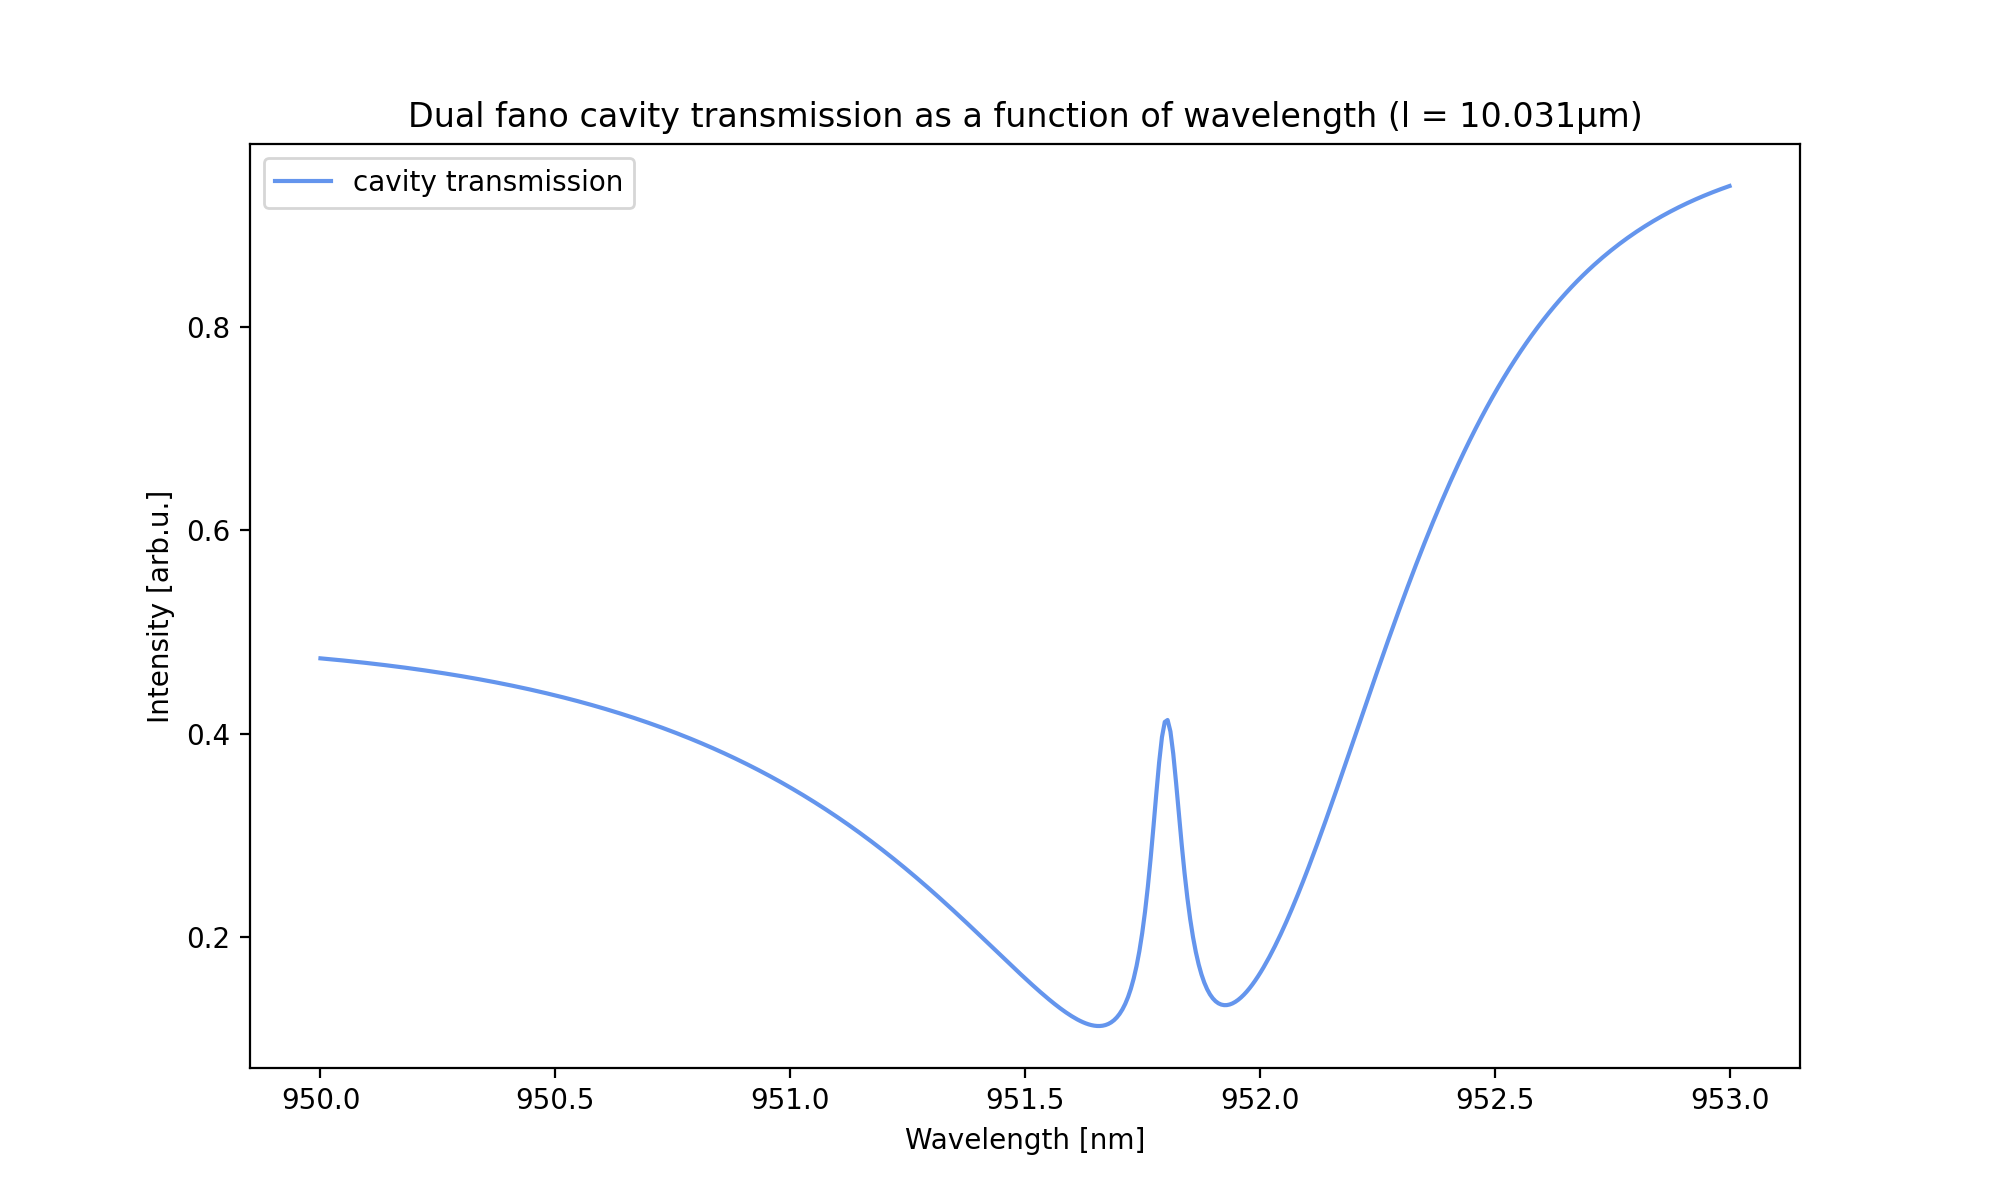
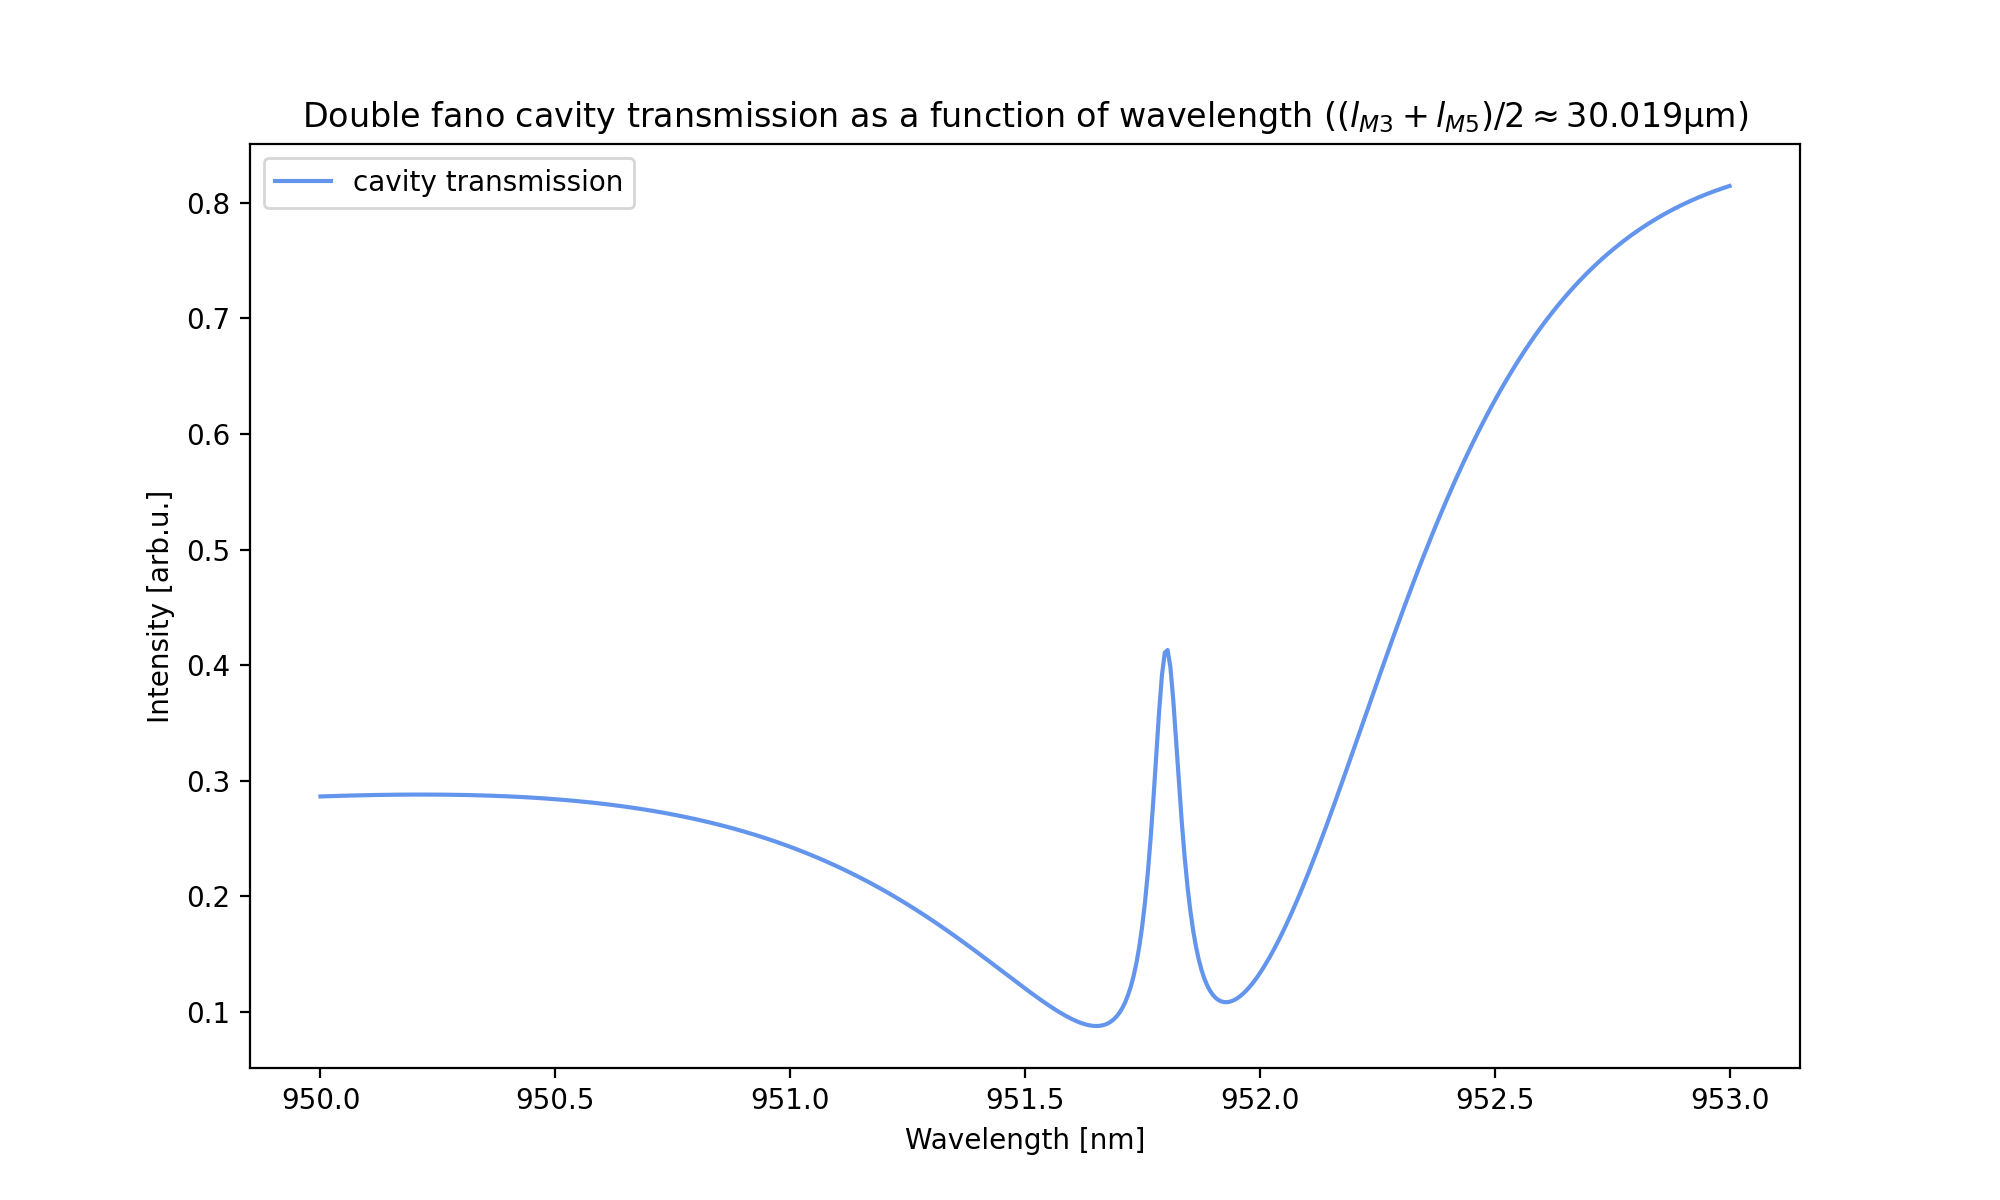
-

diff --git a/fano_theory.py b/fano_theory.py
@@ -23,7 +23,7 @@ params2 = M5.lossy_fit([952,952,0.6,1,0.1])
 # α  -> loss factor 
 
 #λs = np.linspace(951, 952.5, 500)
-λs = np.linspace(950, 953, 50)
+λs = np.linspace(950, 953, 500)
 #λs = np.linspace(910, 980, 10000)
 #λs = np.linspace(951.7, 951.85, 200)
 
@@ -142,8 +142,6 @@ def theoretical_reflection_values_comparison_plot(params1: list, params2: list, 
     plt.legend(bbox_to_anchor=(1.04, 1), loc="upper left")
     plt.subplots_adjust(right=0.70)
     plt.show()
-    
-
 
 def resonant_cavity_length(params: list, λs: np.array, lmin=50):
     reflection_values = theoretical_reflection_values(params, losses=True)[1]
@@ -243,31 +241,46 @@ def single_fano_length_scan(params: list, ls: np.array, λs: np.array):
     plt.legend(["Resonance cavity length: %sμm" % str(round(resonance_length*1e-3,3))])
     plt.show()
 
-def double_fano_length_scan(params1: list, params2: list, ls: np.array, λs: np.array):
+def double_fano_length_scan(params1: list, params2: list, ls: np.array, λs: np.array, plot_both_gratings: False):
     t1 = [complex(t) for t in np.array(np.sqrt(model(λs, *params1)))]
     t2 = [complex(t) for t in np.array(np.sqrt(model(λs, *params2)))]
     r1 = [complex(r) for r in theoretical_reflection_values(params1, losses=True)[1]]
     r2 = [complex(r) for r in theoretical_reflection_values(params2, losses=True)[1]]
 
     idx = np.argmin(t1)
+    idx_2 = np.argmin(t2)
 
     rg1 = r1[idx]; rg2 = r2[idx]
     tg1 = t1[idx]; tg2 = t2[idx]
 
+    rg1_2 = r1[idx_2]; rg2_2 = r2[idx_2]
+    tg1_2 = t1[idx_2]; tg2_2 = t2[idx_2]
+
+
     λ = np.array([λs[idx]])
+    λ_2 = np.array([λs[idx_2]])
     Ts = []
+    Ts_2 = []
     for l in ls:
         T = np.abs(tg1*tg2*np.exp(1j*(2*np.pi/λ)*l)/(1-rg1*rg2*np.exp(2j*(2*np.pi/λ)*l)))**2
+        T_2 = np.abs(tg1_2*tg2_2*np.exp(1j*(2*np.pi/λ_2)*l)/(1-rg1_2*rg2_2*np.exp(2j*(2*np.pi/λ_2)*l)))**2
         Ts.append(T)
+        Ts_2.append(T_2)
     
     resonance_length = double_cavity_length(params1, params2, λs, lmin=ls[0]*1e-3)*1e-3
+    resonance_length_2 = double_cavity_length(params2, params1, λs, lmin=ls[0]*1e-3)*1e-3
 
-    plt.figure(figsize=(10,6))
-    plt.plot(ls*1e-3, Ts, "cornflowerblue")
+    plt.figure(figsize=(15,6))
+    if plot_both_gratings == True:
+        plt.plot(ls*1e-3, Ts, "cornflowerblue", label="$l_{res,M3}$: %sμm" % str(round(resonance_length,3)))
+        plt.plot(ls*1e-3, Ts_2, "--", color="lightcoral", label="$l_{res,M5}$: %sμm" % str(round(resonance_length_2,3)))
+    else:
+        plt.plot(ls*1e-3, Ts, "cornflowerblue", label="$l_{res,M3}$: %sμm" % str(round(resonance_length,3)))
     plt.title("Double fano cavity transmission as a function of cavity length")
     plt.xlabel("cavity length [μm]")
     plt.ylabel("Transmission [arb. u.]")
-    plt.legend(["Resonance cavity length: %sμm" % str(round(resonance_length,3))]) 
+    plt.legend(bbox_to_anchor=(1.04, 1), loc="upper left")
+    plt.subplots_adjust(right=0.70)
     plt.show()
  
 def fano_cavity_transmission(params: list, length: np.array, λs: np.array, intracavity=False, losses=True):
@@ -350,7 +363,7 @@ def dual_fano_transmission_plot(params1: list, params2: list, length: float, λs
         tg2 = model(λs, *params2)
         tg_total = np.abs(tg1*tg2)
         ax.plot(λs, tg_total, "gray", linestyle="--", alpha=0.6, label=r"$|t_{M3} \cdot t_{M5}|$")
-    ax.set_title("Double fano cavity transmission as a function of wavelength (l = %sμm)" % str(round(length*1e-3,3)))
+    ax.set_title("Double fano transmission as a function of wavelength ($\\left(l_{M3} + l_{M5}\\right)/2 \\approx$%sμm)" % str(round(length*1e-3,3)))
     ax.set_xlabel("Wavelength [nm]")
     ax.set_ylabel("Intensity [arb.u.]")
     ax.plot(λs, Ts, "cornflowerblue", label="cavity transmission")
@@ -555,10 +568,10 @@ def line_width_comparison(params1: list, params2: list, length: float, intracavi
 
 #length = (double_cavity_length(params1, params2, λs, lmin=30) + double_cavity_length(params2, params1, λs, lmin=30))/2
 #length = double_cavity_length(params1, params2, λs, lmin=10)
-#dual_fano_transmission_plot(params1, params2, length, λs, intracavity=False, losses=True, total_grating_trans=True, zoom=False)
+#dual_fano_transmission_plot(params1, params2, length, λs, intracavity=False, losses=True, total_grating_trans=False, zoom=False)
 
 #Δ = 0.1
-#lmin=51
+#lmin=30
 #params2[0] += Δ
 #params2[1] += Δ
 #ls = np.linspace(double_cavity_length(params1,params2,λs,lmin=lmin), double_cavity_length(params2,params1,λs,lmin=lmin), 5)
@@ -579,9 +592,9 @@ def line_width_comparison(params1: list, params2: list, length: float, intracavi
 
 #### length scan of the single and double fano cavities
 
-#l=10
-#ls = np.linspace(l*1e3, (l+1)*1e3, 1000)
-#double_fano_length_scan(params1, params2, ls, λs)
+l=30
+ls = np.linspace(l*1e3, (l+1)*1e3, 10000)
+double_fano_length_scan(params1, params2, ls, λs, plot_both_gratings=True)
 #single_fano_length_scan(params1, ls, λs)
 
 
